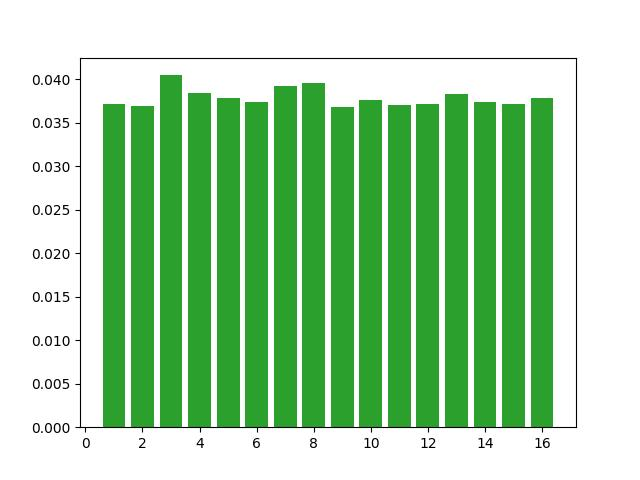
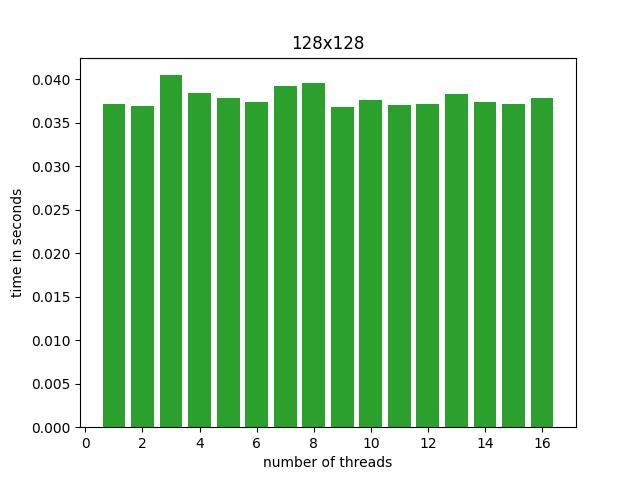
readme update

Changed region(s): [[0.0, 0.375, 0.0312, 0.625], [0.4375, 0.0625, 0.5625, 0.125], [0.4062, 0.9375, 0.625, 0.9688]]

diff --git a/benchmark/plot.py b/benchmark/plot.py
@@ -37,7 +37,11 @@ def plot(imageSize, threadTimeDict):
     threads = threadTimeDict.keys()
     time = threadTimeDict.values()
     plt.bar(threads, time)
+    title = "{imageSize}x{imageSize}".format(imageSize=imageSize)
+    plt.title(title)
     fname = "{imageSize}x{imageSize}.jpg".format(imageSize=imageSize)
+    plt.xlabel("number of threads")
+    plt.ylabel("time in seconds")
     plt.savefig(fname, format="jpg")
     
 def main():

diff --git a/README.md b/README.md
@@ -4,3 +4,5 @@ go run server.go
 then
 In separate terminal:
 go test -run=^$ -bench ^BenchmarkLocal$ > benchmark/benchmark.txt
+cd benchmark
+python3 plot.py
